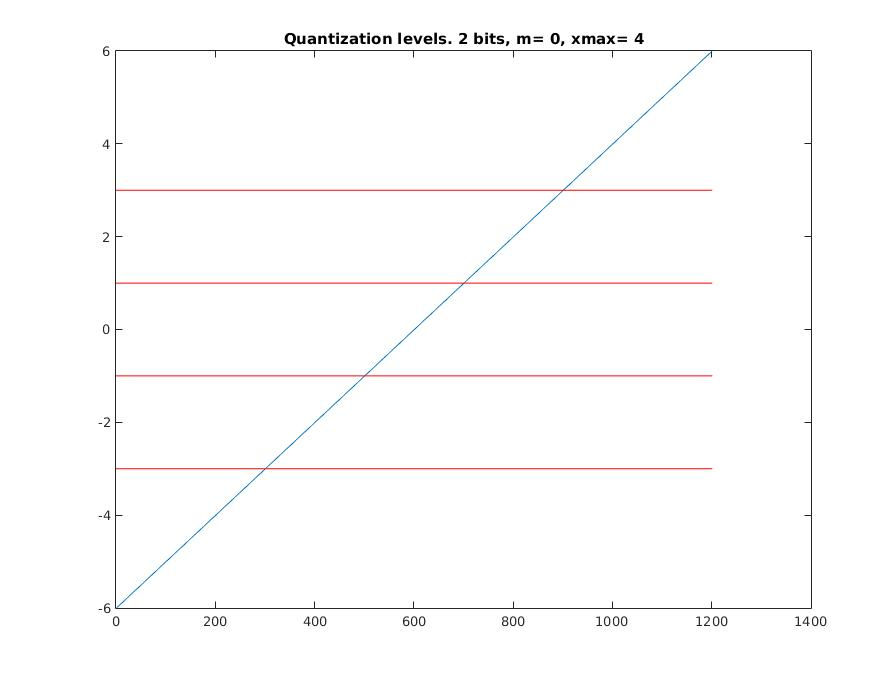
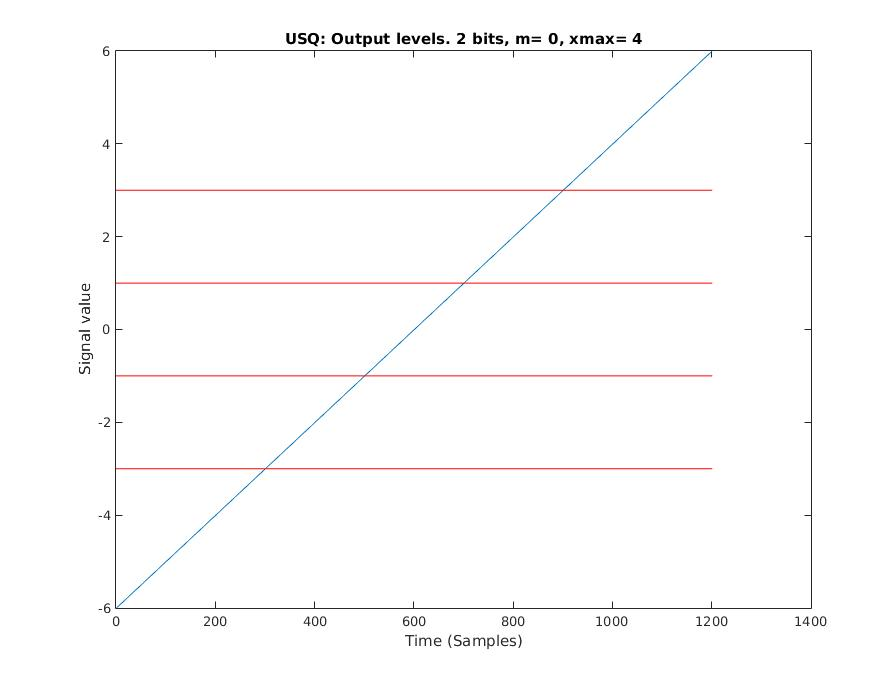
part2

diff --git a/2/UniformScalarQuant2.m b/2/UniformScalarQuant2.m
@@ -4,39 +4,50 @@ clc
 
 load assignment2.mat
 
-in = [-6:.01:6]'; %Signal must be a columns
-nbits_tab = 1:10;
-OUT = zeros(length(nbits_tab), length(in));
+in = male8;%[-6:.01:6]'; %Signal must be a columns
 
-m_tab=[0 1.5]; %Offset of the quantizer recosntruction levels =0 ->midrise quantizer =delta/2 ->midtread
-D = zeros(length(nbits_tab),length(m_tab));
-PSNR = zeros(length(nbits_tab),length(m_tab));
+nbits_tab = 2:10; %Loop on the element of this array
+IN = ones(length(nbits_tab),1)*in';%contains the input in rows
+OUT = zeros(length(nbits_tab), length(in));%Output of USQ with nbits specified in nbits_tab
+
+xmax = max(in);
+m_tab=[0];% 1.5]; %Offset of the quantizer reconstruction levels =0 ->midrise quantizer =delta/2 ->midtread
+D = zeros(length(nbits_tab),length(m_tab));%Distorsion
+PSNR = zeros(length(nbits_tab),length(m_tab)); 
+
+
+
+
+en_plots = 0; %Enables plot in functions
+
 for im = 1:length(m_tab)
 m = m_tab(im);
 
 for i_bits = 1:length(nbits_tab)
 n_bits = nbits_tab(i_bits);
 fprintf('%d bits\n', n_bits);
-xmax = 4;
+
 % n_bits = 2;
-en_plots = 0; %Enables plot in functions
 
 [ idx ] = sq_enc(in, n_bits, xmax, m, en_plots);
 
 OUT(i_bits,:) = sq_dec(idx, n_bits, xmax, m);
 end
-IN = ones(length(nbits_tab),1)*in';
+
 D(:,im) = 1/length(in)*sum( (IN-OUT).^2,2);
 
 end
-figure,
+
+figure, %Plot Rate vs distorsion curve with m_tab of dimension 2
 plot(nbits_tab, D(:,1),'LineWidth',2);hold on;
-plot(nbits_tab, D(:,2),'LineWidth',2);
-legend(['m= ' num2str(m_tab(1))] ,['m= ' num2str(m_tab(2))]);
+% plot(nbits_tab, D(:,2),'LineWidth',2);
+% legend(['m= ' num2str(m_tab(1))] ,['m= ' num2str(m_tab(2))]);
 xlabel('Rate (bits)'); ylabel('Distorsion');
  title({'USQ'; 'Rate vs Distorsion'});
+ 
+% soundsc(in,8000);
+soundsc(OUT(5,:),8000);
 
-% 
 % figure, plot(in,outq);
 % title(['Uniform Scalar Quantizer. ' num2str(n_bits) ' bits, m= ' num2str(m) ', xmax= ' num2str(xmax) ]);
 % xlabel('Input');ylabel('Output');

diff --git a/2/ParamCodingSpeech3.m b/2/ParamCodingSpeech3.m
@@ -1,0 +1,27 @@
+close all
+clear all
+clc
+
+load assignment2.mat
+
+Fs = 8000;
+scaling_f = 1;
+mute = 0;
+	% set parameters
+x = male8 ;
+flen=30 ;               %ms
+alen = flen/1000*Fs ;   % size of analysis window
+ulen = 120 ;             % length of update
+M = 120;                 % order for LP analysis
+
+en_plots=1;
+% soundsc(x,Fs);
+[E, V, A,P]=analysis(x, alen, ulen, M);%, Fs);%, en_plots);
+s = synthesis(E, V, A, P, ulen);
+% s = s/max(s)*max(x);
+
+figure, 
+plot(x); hold on;
+plot(s); title(['ulen = ' num2str(ulen)]);
+legend('Initial', 'Vocoded');
+soundsc(s,Fs);

diff --git a/2/sq_enc.m b/2/sq_enc.m
@@ -13,7 +13,8 @@ if en_plots
         plot([0 inlen],val(i)*[1 1],'-r');
         hold on;
     end
-    title(['Quantization levels. ' num2str(n_bits) ' bits, m= ' num2str(m) ', xmax= ' num2str(xmax) ]);
+    title(['USQ: Output levels. ' num2str(n_bits) ' bits, m= ' num2str(m) ', xmax= ' num2str(xmax) ]);
+    xlabel('Time (Samples)'); ylabel('Signal value');
 end
 
 %To get the index we will substract one sample by all the quantization

diff --git a/1/Vocoder8.m b/1/Vocoder8.m
@@ -17,9 +17,6 @@ M = 50;                 % order for LP analysis
 en_plots=1;
 mysound(x,Fs);
 [E, ZC, V, A,P]=analysis(x, alen, ulen, M, Fs, en_plots);
-
-
-
 s = synthesis2(E, ZC, V, A, P, ulen);
 % s = s/max(s)*max(x);
 
